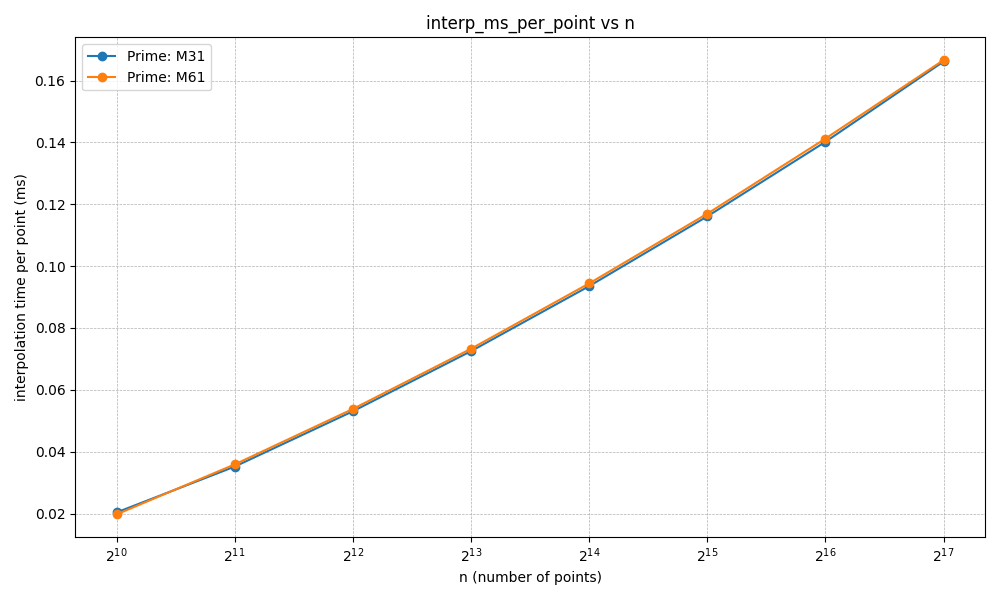
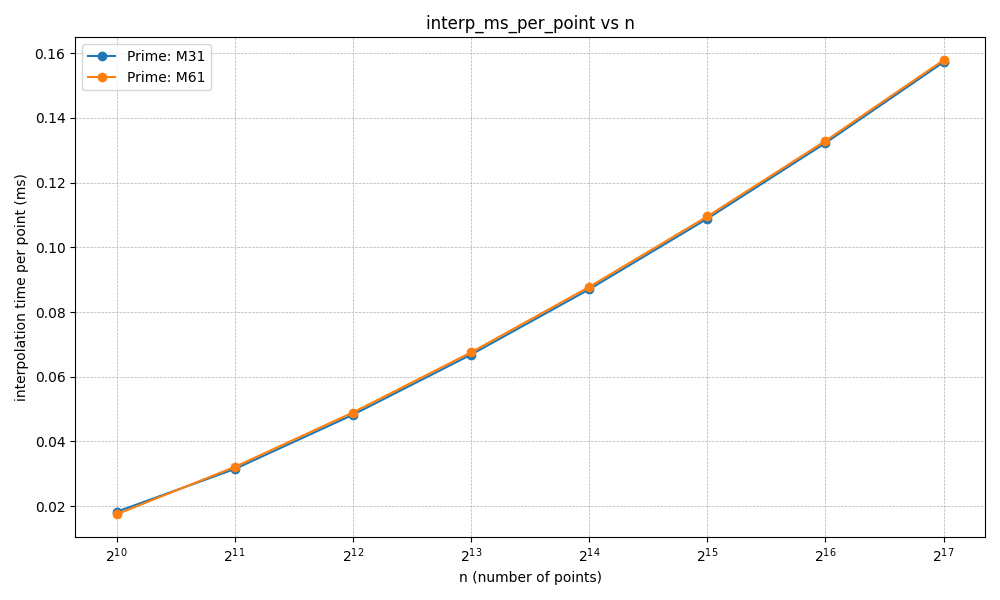
perf: implement true mul_trunc (low-k product) to speed up Newton div/mod

diff --git a/include/poly_interp/fp_poly.hpp b/include/poly_interp/fp_poly.hpp
@@ -775,11 +775,68 @@ inline pf::FpPoly pf::FpPoly::mul_trunc_poly(const FpPoly& a, const FpPoly& b, s
     if (k == 0) return FpPoly(F);
     if (a.is_zero() || b.is_zero()) return FpPoly(F);
 
-    FpPoly prod = a.mul(b);
-    if (prod.c_.size() > k) prod.c_.resize(k);
-    prod.trim();
-    return prod;
+    // 只需要低 k 项 -> 先把输入截断到 k 项
+    const size_type an = std::min<size_type>(a.c_.size(), k);
+    const size_type bn = std::min<size_type>(b.c_.size(), k);
+    if (an == 0 || bn == 0) return FpPoly(F);
+
+    const size_type full_need = an + bn - 1;
+    const size_type out_need = std::min<size_type>(k, full_need);
+    if (out_need == 0) return FpPoly(F);
+
+    // 小规模：直接 O(k^2) 低位乘（只算 i+j < out_need）
+    if (out_need <= 256 || std::min(an, bn) <= 64) {
+        std::vector<Fp> out(out_need, F.zero());
+        for (size_type i = 0; i < an; ++i) {
+            const Fp ai = a.c_[i];
+            if (ai.v == 0) continue;
+            const size_type jmax = std::min<size_type>(bn, out_need - i);
+            for (size_type j = 0; j < jmax; ++j) {
+                const Fp bj = b.c_[j];
+                if (bj.v == 0) continue;
+                out[i + j] = F.add(out[i + j], F.mul(ai, bj));
+            }
+        }
+        FpPoly r(F, std::move(out));
+        r.trim();
+        return r;
+    }
+
+    // 大规模：NTT/CRT，但只对低位需要的部分做输入截断，并且只合并 out_need 个系数
+    const u64 p = F.modulus();
+    constexpr std::size_t K = pf::detail::kNTT.size();
+
+    std::vector<std::vector<pf::detail::u32>> residues;
+    residues.resize(K);
+
+    for (std::size_t idxp = 0; idxp < K; ++idxp) {
+        const auto prm = pf::detail::kNTT[idxp];
+
+        std::vector<pf::detail::u32> A32(an), B32(bn);
+        for (size_type i = 0; i < an; ++i) A32[i] = (pf::detail::u32)(a.c_[i].v % prm.mod);
+        for (size_type j = 0; j < bn; ++j) B32[j] = (pf::detail::u32)(b.c_[j].v % prm.mod);
+
+        residues[idxp] = pf::detail::convolution_mod_ntt(A32, B32, idxp);
+        // 只保留我们需要合并的前 out_need 项（节省内存/后续访问）
+        if (residues[idxp].size() > out_need) residues[idxp].resize(out_need);
+    }
+
+    std::vector<Fp> out(out_need, F.zero());
+    std::array<pf::detail::u32, K> r{};
+
+    for (size_type i = 0; i < out_need; ++i) {
+        for (std::size_t idxp = 0; idxp < K; ++idxp) {
+            r[idxp] = residues[idxp][i];
+        }
+        const u64 val = pf::detail::garner_crt_to_mod_p(r.data(), p);
+        out[i] = Fp{val};
+    }
+
+    FpPoly res(F, std::move(out));
+    res.trim();
+    return res;
 }
+
 
 inline pf::FpPoly pf::FpPoly::inv_series_poly(const FpPoly& f, size_type k) {
     f.require_ctx();
